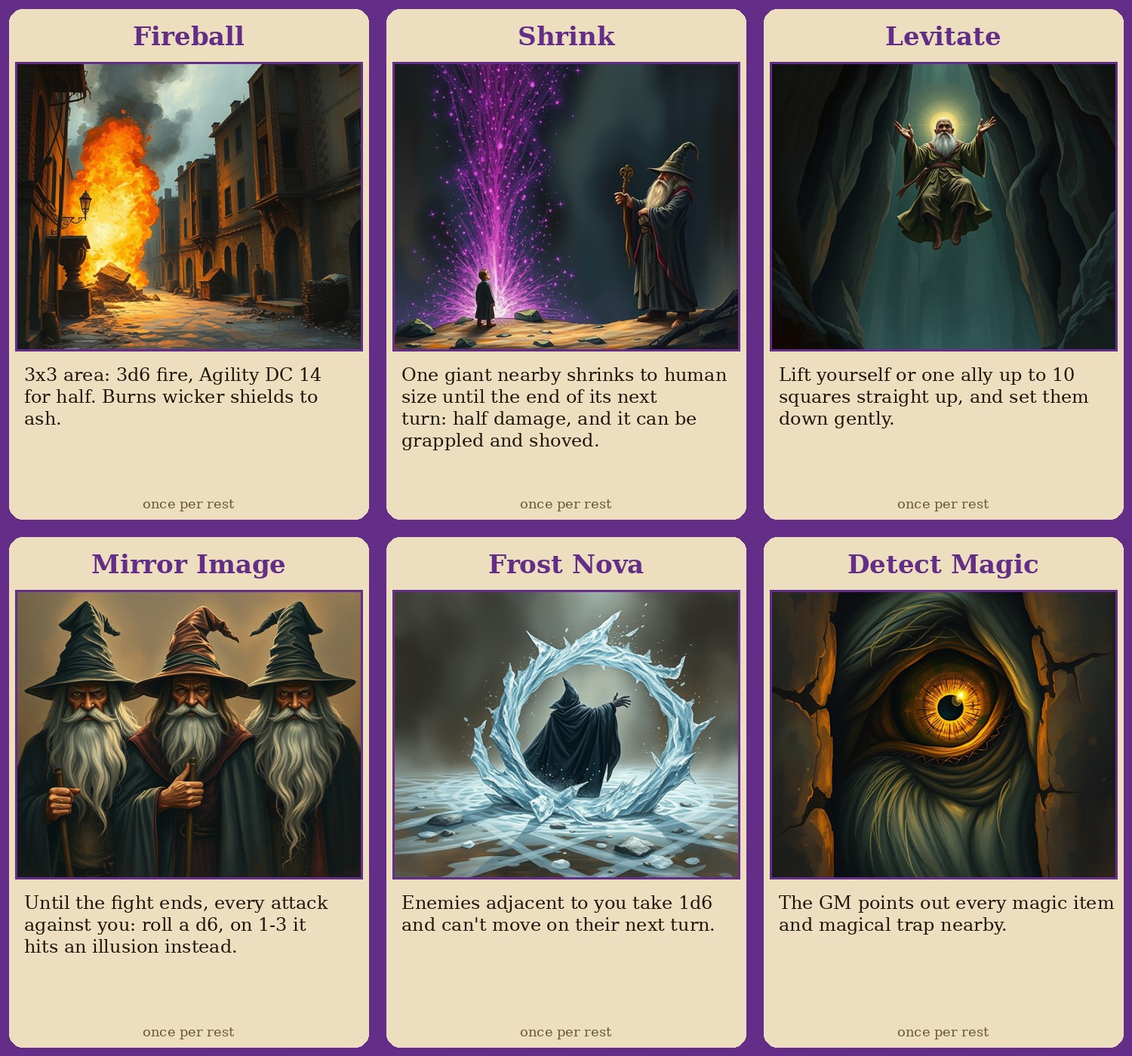
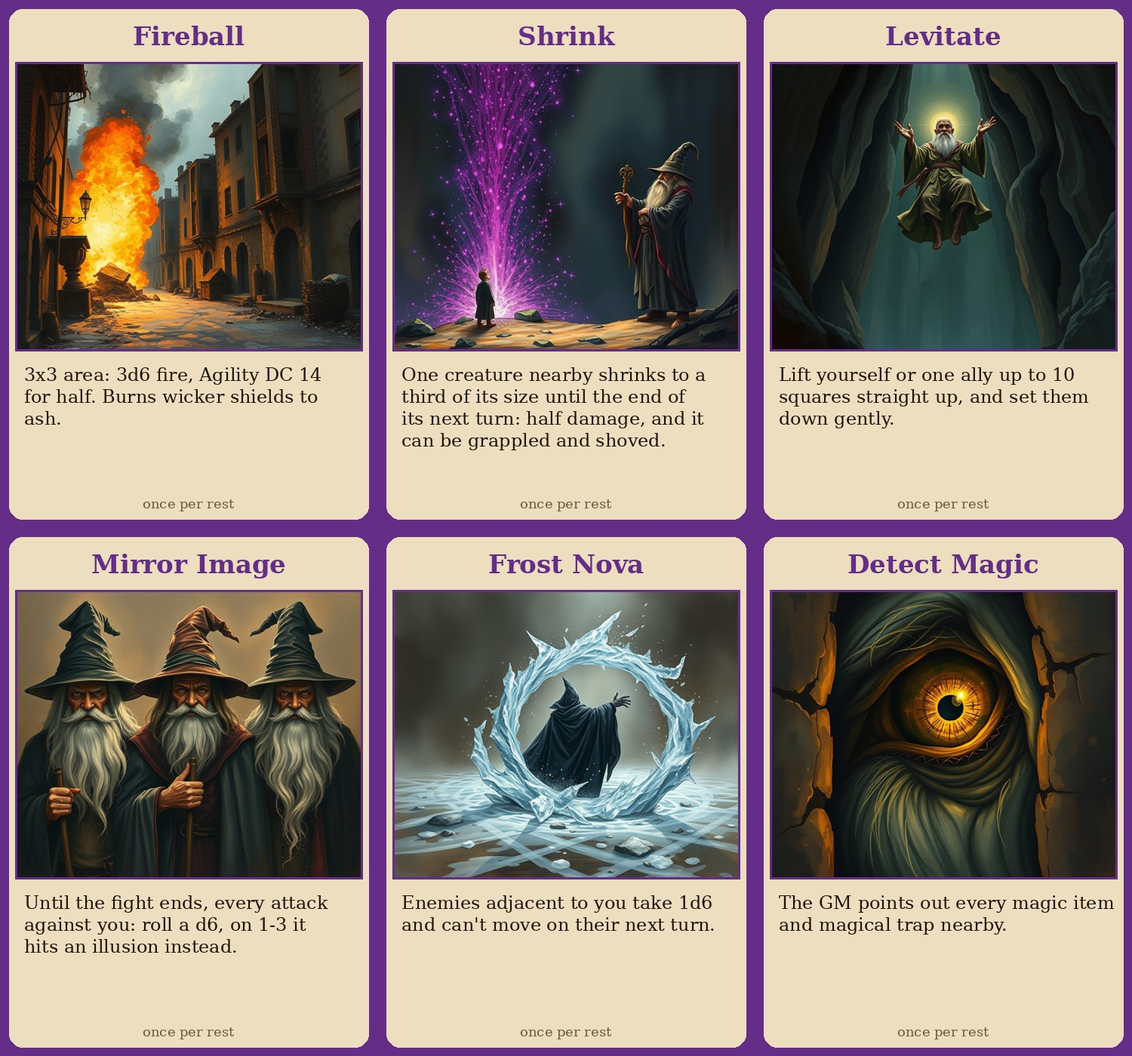
GM loot bag; new items (Sniffer Ferret, Potion of Giantism, Lightning Rod); Baron's Lucky Ring, Speak Giant; text fixes; new card and item art

Changed region(s): [[0.3373, 0.3379, 0.644, 0.43]]

diff --git a/content.py b/content.py
@@ -31,7 +31,7 @@ HEROES = [
          attacks=[("Dagger", 5, "1d6+3", "melee"), ("Throwing knife", 5, "1d4+3", "range 6")],
          blurb="Quick feet, quicker hands. Nothing stays locked for long.",
          traits=["Sneaky: advantage on sneaking and lockpicking (roll 2 d20, keep the best).",
-                 "Street smart: knows how thieves' guilds think, talk and hide things."],
+                 "Street smart: knows how thieves think, talk and hide things."],
          background="Grew up in the alleys of Aldmere's capital and talked his way into the King's service "
                     "instead of the King's dungeon.",
          gear="Twin daggers, throwing knives, lockpicks, rope, a hooded cloak.",
@@ -40,11 +40,11 @@ HEROES = [
              ("Shadowstep", "Move up to 6 squares unseen. Your next attack this turn rolls 2 d20, keep the best.",
               "a hooded rogue melting into deep shadow in a narrow medieval alley between timber-framed houses, lantern light, only glowing eyes visible"),
              ("Backstab", "Play after you hit: add +2d6 damage.",
-              "a dagger striking from behind a pillar, dramatic motion"),
+              "side view of two men: a hooded assassin standing right behind a city guard, his dagger sunk into the guard's back between the shoulder blades, the guard's face twisted in shock, dark alley, dramatic rim light"),
              ("Nimble Fingers", "Auto-succeed one lockpick, pickpocket or trap-disarm check.",
               "delicate hands picking an ornate lock with thin tools, candlelight"),
              ("Smoke Bomb", "Everyone in a 3x3 area is hidden until they act. Enemies can't target allies inside.",
-              "a burst of thick grey smoke in a narrow street, silhouettes escaping"),
+              "a hooded rogue vanishing in a billowing cloud of thick grey smoke burst at his feet, coughing guards groping around him, narrow torchlit street"),
              ("Luck", "Reroll any one die on the table, yours or anyone else's.",
               "close-up of a single ivory six-sided die with round pips on a worn wooden table, candlelight, blank table surface"),
              ("Poisoned Blade", "Your next hit also deals 1d6 at the start of the target's next 3 turns.",
@@ -54,14 +54,14 @@ HEROES = [
          stats=dict(Might=3, Agility=1, Wits=0),
          attacks=[("Longsword", 5, "1d8+3", "melee"), ("Shield bash", 5, "1d4+3", "melee, push 1 square")],
          blurb="Veteran of the goblin wars. First in, last out.",
-         traits=["Speaks a little Giant: understands simple words and can say a few. Anything harder: Wits DC 12.",
-                 "Hard to shift: advantage on checks to hold a door, a line or a giant's leash."],
+         traits=["Speaks a little Giant: understands simple words and can say a few.",
+                 "Hard to shift: advantage on checks that would move him against his will."],
          background="Veteran of the goblin wars. Picked up some Giant guarding a captured one for a winter, mostly the rude words.",
          gear="Longsword, dented shield, chainmail, a flask of something strong.",
          portrait="a scarred armoured knight with longsword and dented shield, stern face, stormy sky",
          cards=[
              ("Cleave", "Make one attack roll against every enemy adjacent to you.",
-              "a knight swinging a longsword in a wide arc, sparks flying"),
+              "action shot of a knight swinging his longsword in a wide sweeping arc, a bright curved slash trail of light across the whole frame, motion blur, sparks"),
              ("Shield Wall", "Until your next turn, you and adjacent allies get +3 Defense.",
               "a raised battered shield taking a hail of arrows"),
              ("Taunt", "All enemies that can see you must attack you this round.",
@@ -69,9 +69,9 @@ HEROES = [
              ("Second Wind", "Heal 1d10+5 HP. Free action.",
               "a wounded knight rising to his feet, breathing hard, golden light"),
              ("Mighty Heave", "Throw an object or a human-sized foe up to 4 squares: 2d6 damage to what it hits.",
-              "a knight hurling a heavy barrel at an enemy"),
-             ("Giant-Talk", "Understand and speak Giant for one whole conversation. +5 to persuade or intimidate a giant.",
-              "a scarred knight in chainmail shouting up at a huge bearded hill giant in furs and leather, the giant a big rough man with a wild beard, ruined medieval town street"),
+              "a muscular armoured knight lifting a heavy wooden barrel over his head and hurling it at a charging brute, splinters flying"),
+             ("Speak Giant", "Understand and speak Giant for one whole conversation. +5 to persuade or intimidate a giant.",
+              "a scarred knight in chainmail standing on a broken cart shouting up at a huge brutish pot-bellied hill giant in a ragged loincloth who leans down to listen, ruined town street"),
          ]),
     dict(key="healer", name="Sister Maelis the Healer", color="Green", fig="rpg_WARRIOR", hp=22, defense=13,
          stats=dict(Might=1, Agility=0, Wits=3),
@@ -84,7 +84,7 @@ HEROES = [
          portrait="a stout middle-aged battle priestess in chainmail holding a flanged mace, a golden sun pendant on her chest, kind stern face, braided hair, warm light",
          cards=[
              ("Mending Touch", "Heal an adjacent ally 2d8+3.",
-              "glowing hands pressed on a wounded shoulder, soft golden light"),
+              "two open hands glowing with warm golden healing light, soft rays and motes of light, close-up, dark background"),
              ("Prayer of Light", "Every ally within 6 squares heals 1d8.",
               "a priestess raising a holy symbol, rays of light over a group"),
              ("Blessing", "One ally adds +1d4 to all rolls until the end of the fight.",
@@ -101,14 +101,14 @@ HEROES = [
          attacks=[("Staff", 2, "1d6", "melee"), ("Arcane bolt", 5, "1d10", "range 10")],
          blurb="Royal court wizard. Fragile, clever, and stubborn.",
          traits=["Arcane lore: recognises magic items, runes and spells on sight.",
-                 "Old friends: he taught Princess Isolde her first sorcery. She trusts his voice."],
+                 "Old friends: tutored the young princess in magic; she trusts him."],
          background="Royal court wizard. Fragile, clever and stubborn. Tutor to the princess, and not about to lose her.",
          gear="Crooked staff, spellbook, star-embroidered robe, a pipe he is not allowed to light indoors.",
          portrait="an old bearded wizard with a crooked staff and star-embroidered robe, arcane glow",
          cards=[
              ("Fireball", "3x3 area: 3d6 fire, Agility DC 14 for half. Burns wicker shields to ash.",
               "a huge fireball exploding in a ruined street, wicker burning"),
-             ("Shrink", "One giant nearby shrinks to human size until the end of its next turn: half damage, and it can be grappled and shoved.",
+             ("Shrink", "One creature nearby shrinks to a third of its size until the end of its next turn: half damage, and it can be grappled and shoved.",
               "a tiny bewildered giant the size of a man standing among towering wizard's purple sparkles, an old wizard pointing his staff at it"),
              ("Levitate", "Lift yourself or one ally up to 10 squares straight up, and set them down gently.",
               "an old wizard levitating in mid-air inside a tall dark cave shaft, feet high above the ground, robes billowing, glowing aura"),
@@ -117,7 +117,7 @@ HEROES = [
              ("Frost Nova", "Enemies adjacent to you take 1d6 and can't move on their next turn.",
               "a ring of ice exploding outwards from a wizard, frozen ground"),
              ("Detect Magic", "The GM points out every magic item and magical trap nearby.",
-              "a wizard's eye glowing, hidden objects shining through walls"),
+              "an old bearded wizard peering closely at a glowing magic ring held up between his fingers, violet light on his face, dark study"),
          ]),
 ]
 
@@ -157,7 +157,7 @@ NPCS = {
         ("Club smash", 7, "2d8+4", "melee, reach 2"),
         ("Stomp", None, "1d8", "all adjacent: Agility DC 13 or take it and fall prone"),
     ], notes="WICKER SHIELD: ranged attacks against it get -5 unless the shield is burned. Moves 8."),
-    "giant_thrower": dict(portrait="a hunched brutish hill giant three times the height of a man, huge round pot belly, long thick muscular arms, sloping shoulders, small head with patchy greasy hair, heavy lumpy deformed brow, crooked yellow teeth bared, dirt-smeared tanned skin, ragged loincloth, crude leather sandals, hefting a broken cart wheel over his head to throw it, terrified townsmen beside him reach only to his knees, ruined town street, smoke", name="Giant thrower", fig="rpg_CYCLOP", scale=0.9, hp=50, defense=12, attacks=[
+    "giant_thrower": dict(portrait="close-up head and shoulders of a brutish pot-bellied hill giant with patchy greasy hair, a lumpy deformed brow and crooked yellow teeth, snarling as he hurls a big rock toward the viewer, the rock flying at the camera, motion blur, smoke", name="Giant thrower", fig="rpg_CYCLOP", scale=0.9, hp=50, defense=12, attacks=[
         ("Hurl rubble", 5, "2d6+2", "range 10"),
         ("Hurl cart wheel", None, "2d8", "a line 6 long, Agility DC 13 for half"),
         ("Club smash", 6, "2d8+2", "melee, reach 2"),
@@ -196,7 +196,7 @@ NPCS = {
         ("Baron's Bones: roll 3d6", None, "3d6", "dice game roll"),
         ("Baron's Bones: reroll 1 die", None, "1d6", "his free reroll each round (ring or rules)"),
         ("Lucky Ring reroll", None, "1d6", "extra reroll from the ring, once per round"),
-    ], notes="Wears VASKO'S LUCKY RING (see notes). Laughs a lot, never blinks."),
+    ], notes="Wears THE BARON'S LUCKY RING (see notes). Laughs a lot, never blinks."),
     "guard": dict(portrait="a big brutish bandit bodyguard with a broken nose, spiked cudgel and leather armour, candlelit cellar", name="Baron's bruiser", fig="rpg_ORC", hp=20, defense=14, attacks=[
         ("Axe", 4, "1d10+2", "melee"),
     ], notes="Two of them. Loyal while Vasko is winning."),
@@ -210,7 +210,7 @@ NPCS = {
     "dying_giant": dict(portrait="a wounded old hill giantess slumped against cave rock, grey braids, tired sad eyes, dim firelight", name="Hrothga, dying giantess", fig="rpg_CYCLOP", scale=0.85, move=0, notable=True,
                         hp=6, defense=8, attacks=[
         ("Feeble swipe", 3, "1d6", "only if attacked"),
-    ], notes="Speaks only Giant (Giant-Talk, or Brannoc's few words). See scene notes."),
+    ], notes="Speaks only Giant (Speak Giant, or Brannoc's few words). See scene notes."),
     "dead_human": dict(name="Fallen guildsman", fig="rpg_THIEF", hp=1, defense=1, attacks=[], notes="Died fighting.",
                        dead=True),
     "princess": dict(portrait="a wounded young princess sorceress with a cracked moonstone staff, pale, torn royal robes, determined eyes, dark cave", notable=True, name="Princess Isolde", fig="rpg_MAGE", hp=20, defense=12, attacks=[
@@ -403,12 +403,12 @@ RAT'S BONES (dice game) - best of 3 rounds:
   THE LOADED GOLD DIE (if they found it in the sewer): always a 6. Swapping it in unseen: Agility DC 13;
     Vasko notices a gold die on Wits DC 12 (he'd know - it's how he'd cheat too).
   Stakes: party loses -> hand over all food and gold. Party wins -> he talks.
-  THE RING: Vasko secretly rerolls once more per round with VASKO'S LUCKY RING (use its button).
+  THE RING: Vasko secretly rerolls once more per round with THE BARON'S LUCKY RING (use its button).
     Wits DC 14 to notice his ring glowing when he rerolls. Calling it out: he laughs, sets it aside
     for "fairness" (no more ring rerolls) - and now it's on the table.
   STEALING THE RING (optional heist): Agility DC 16 while he's rolling (Nimble Fingers auto-succeeds,
     Smoke Bomb or a distraction gives +5). Caught -> the bruisers attack, kids scatter.
-  VASKO'S LUCKY RING (magic): once per fight, reroll any die you can see.
+  THE BARON'S LUCKY RING (magic): once per fight, reroll any die you can see.
 IF THEY WIN: "The girl? Yes, I kept her. A princess eats a lot. Sold her to the guild boys, the
   Shadow Hands. They meant to ransom her to your king. Took her out by cart, north road, three days ago."
   He whistles; a kid leads them to the hidden door (east wall): the old smugglers' passage.
@@ -426,7 +426,7 @@ If paid the kids earlier: Vasko starts friendly and the first round is given to 
                   ("chest", -2.6, -1.5, 80, 1, {"name": "Old chest", "gm": "Empty: looted long ago."}),
                   # A: old guard post (north, x -3.5)
                   ("chest", -3.5, 6.0, 0, 1, {"name": "Guard post chest", "gm": "Locked (Agility DC 12): 15 gold, a rope. "
-                   "The skeleton beside it still holds the LANTERN OF TRUE SIGHT."}),
+                   "A caged SNIFFER FERRET sits by the skeleton, still alive."}),
                   ("torch", -4.3, 5.4), ("rubble", -2.9, 4.4, 60, 0.6),
                   # B: collapsed stash (south, x 1.5)
                   ("rubble", 1.5, -5.6, 0, 1.1), ("barrel", 0.9, -4.6, 0, 1, {"name": "Smugglers' stash", "gm": "Wits DC 12: the ceiling is loose. Digging out carelessly brings it down (1d6, Agility DC 12 halves). Inside: 3 rations and a SMOKE EGG."}),
@@ -460,9 +460,9 @@ Disarm: Agility DC 13 (Nimble Fingers auto). Triggered effects:
      Right-click the vent marker > "Release the gas" for the green cloud.
   4. BELL TRIPWIRE (column +8): harmless... unless it rings: the 2 giant rats in their nest (C) attack.
 SIDE PASSAGES (optional, each off the main tunnel; hover a chest/barrel/sack for its loot):
-  A. OLD GUARD POST (north, column -3.5): a skeleton slumped by a chest. LOOT: the skeleton has a LANTERN OF
-     TRUE SIGHT (magic: once, see through illusions/invisibility for an hour) - hint: the princess will be hard
-     to see in the cave. The chest is locked (Agility DC 12): 15 gold, a rope.
+  A. OLD GUARD POST (north, column -3.5): a skeleton slumped by a chest. LOOT: in a little cage by the skeleton, a
+     SNIFFER FERRET, still alive (the smugglers' pet: once, it finds one hidden person, door or trap) - hint: the
+     princess will be hard to find in the cave. The chest is locked (Agility DC 12): 15 gold, a rope.
   B. COLLAPSED STASH (south, column +1.5): smugglers' goods half buried under a roof fall. Wits DC 12 notices the
      ceiling is loose; digging out the barrel without care brings more down (1d6, Agility DC 12 halves).
      Inside: 3 rations and a SMOKE EGG (magic: works like Smoke Bomb, once).
@@ -514,17 +514,17 @@ After: tracks and blood lead to a cave in the hillside."""),
                ("princess", 0, 6)],
          notes="""Read aloud: "The cave stinks of blood and smoke. The guild made their last stand here -
 three bodies around a burnt-out fire. In the corner, leaning against the rock, a giantess. Still breathing."
-HROTHGA (dying giantess): speaks Giant only. Brannoc's Giant-Talk lets them talk; without it
-he gets a few words (Wits DC 12 for anything more). Kind Heart makes her trust them. She is not hostile, just dying. What she knows:
+HROTHGA (dying giantess): speaks Giant only. Brannoc's Speak Giant card lets them talk; without it
+he gets a few simple words. Kind Heart makes her trust them. She is not hostile, just dying. What she knows:
   - "The little thieves took the Hearthstone from our mountain. Our shrine is cold. We came for it."
   - "We found the little witch in the thieves' cage. She is the Pact-maker. We wanted her to speak for us."
   - "The thieves fought. She... became a bird. White bird. Flew up." (points up the shaft to the north)
   - If healed/fed: "Tell your king: give back the Hearthstone and the mountains are quiet again."
-  - She carries a GIANT'S TOOTH AMULET (magic: once, Might check auto-succeeds) and gives it if treated kindly.
+  - She carries a POTION OF GIANTISM (drink: twice your size until the fight ends, +1d4 melee damage) and gives it if treated kindly.
 THE SHAFT (north, where the light comes in): 10 squares straight up. Might DC 15 climb (fail: 1d6, try again), rope + one
-climber, or LEVITATE. The LANTERN OF TRUE SIGHT shows her hiding place (otherwise Wits DC 14).
+climber, or LEVITATE. The SNIFFER FERRET finds her hiding place (otherwise Wits DC 14).
 ISOLDE: in a ledge up the shaft, human again, wounded but alive. Heal her or give her food (she stands).
-She keeps a shard of her MOONSTAFF (magic, gift to whoever reached her first: once, cast Fireball).
+She keeps a LIGHTNING ROD (magic, gift to whoever reached her first: once, chain lightning 2d6 + 1d6 to 2 more).
 Read aloud: "A pale young woman in torn blue silk opens her eyes. 'Took you long enough.'"
 THE END. (Optional epilogue: she promises to return the Hearthstone and renew the Pact.)"""),
 ]
@@ -535,20 +535,21 @@ BATTLE_MUSIC = "battle.mp3"
 # magic items as cards the GM hands out: (name, rules text, card art prompt, copies)
 # what a right-click > Search turns up in a chest/barrel/crate/sack without fixed loot: (weight, text); {gold} = 2-8.
 # Out of 100: gold 15, each item card 1. Weight 3 or less sparkles.
-FOOD = [("an apple.", "Apple"), ("a strip of salted venison.", "Salted venison"), ("a wedge of hard cheese.", "Hard cheese"),
-        ("a heel of rye bread.", "Rye bread"), ("a dried fish.", "Dried fish")]   # food finds use the ration model
+FOOD = [("An apple.", "Apple"), ("A strip of salted venison.", "Salted venison"), ("A wedge of hard cheese.", "Hard cheese"),
+        ("A heel of rye bread.", "Rye bread"), ("A dried fish.", "Dried fish")]   # food finds use the ration model
 LOOT = [   # (weight, [(text, what turns up on the table), ...]: one of the variants at random. On the table: False (nothing),
            # "gold" (that many coins), or an item name: a loot sack, the ration model for FOOD, or a copy of that item card)
-    (30, [("rot, mould and rat droppings. Nothing.", False)]),
-    (6, [("an angry rat! It bites (1 damage) and is gone.", False)]),
-    (8, [("a love letter in Dravic, unsent. Worthless, but touching.", "Love letter (Dravic)")]),
-    (8, [("a cracked mug and a lucky horseshoe nail. Worthless.", "Lucky horseshoe nail")]),
+    (30, [("Rot, mould and rat droppings. Nothing.", False)]),
+    (6, [("An angry rat! It bites (1 damage) and is gone.", False)]),
+    (6, [("A love letter, unsent. Worthless, but touching.", "Love letter")]),
+    (5, [("A cracked mug. Worthless.", "Cracked mug")]),
+    (5, [("A lucky horseshoe nail. Worthless.", "Lucky horseshoe nail")]),
     (15, [("{gold} gold.", "gold")]),
-    (30, FOOD + [("a torch.", "Torch"), ("a coil of rope.", "Rope"),
-                 ("a flask of lamp oil (thrown: 1d6 fire, once).", "Lamp oil")]),   # supplies
-    (1, [("a HEALING DRAUGHT!", "Healing Draught")]),
-    (1, [("a SMOKE EGG!", "Smoke Egg")]),
-    (1, [("a POISON FLASK!", "Poison Flask")]),
+    (30, FOOD + [("A torch.", "Torch"), ("A coil of rope.", "Rope"),
+                 ("A flask of lamp oil (thrown: 1d6 fire, once).", "Lamp oil")]),   # supplies
+    (1, [("A HEALING DRAUGHT!", "Healing Draught")]),
+    (1, [("A SMOKE EGG!", "Smoke Egg")]),
+    (1, [("A POISON FLASK!", "Poison Flask")]),
 ]
 
 ITEMS = [
@@ -560,16 +561,16 @@ ITEMS = [
      "a small round glass flask of glowing red potion with a cork stopper on a wooden table", 2),
     ("Smoke Egg", "Throw it: works like Smoke Bomb, a 3x3 area is hidden until they act. One use.",
      "a grey clay egg-shaped bomb with a short smouldering fuse, wisps of smoke curling from it", 2),
-    ("Vasko's Lucky Ring", "Once per fight: reroll any die you can see.",
-     "a heavy gold signet ring with a rat crest and a faintly glowing green gem on red velvet", 1),
-    ("Lantern of True Sight", "Once: for an hour, see through illusions and invisibility.",
-     "an old engraved brass lantern glowing with pale blue magical light in a dark stone tunnel", 1),
-    ("Giant's Tooth Amulet", "Once: one Might check automatically succeeds.",
-     "a huge yellowed giant's tooth carved with swirling spiral patterns hanging from a thick braided rope on dark stone", 1),
-    ("Moonstaff Shard", "Once: cast Fireball (3x3 area, 3d6 fire, Agility DC 14 for half).",
-     "a broken shard of a silver staff with a glowing crescent moon crystal, sparks of light", 1),
-    ("Poison Flask", "Throw it (range 6): the target takes 1d6 at the start of its next 3 turns, like Poisoned Blade. One use.",
-     "a small cracked clay flask of bubbling green poison with a rag stopper on a dark wooden table, green fumes", 1),
+    ("Baron's Lucky Ring", "Once per fight: reroll any die you can see.",
+     "a heavy gold signet ring with a rat crest and a glowing green gem resting on a pile of old bone dice and coins on a gambling table, candlelight", 1),
+    ("Sniffer Ferret", "Once: let it loose. It sniffs out one hidden person, door or trap nearby, then comes back for a treat.",
+     "a sly sleek ferret with a tiny leather collar peeking out of a small wooden smuggler's cage, lantern light, stone tunnel", 1),
+    ("Potion of Giantism", "Drink it: you grow to twice your size until the fight ends. Your melee attacks deal +1d4 damage.",
+     "a large bulbous potion bottle of swirling amber liquid with a giant's footprint seal on the cork, on a rough stone ledge", 1),
+    ("Lightning Rod", "Once: chain lightning. 2d6 to one target, then it jumps to up to 2 more enemies within 3 squares for 1d6 each.",
+     "a short iron rod wrapped in copper wire crackling with blue lightning arcs, held up in a dark cave", 1),
+    ("Poison Flask", "Throw it (range 6): the target takes 1d6 at the start of its next 3 turns. One use.",
+     "a small round glass flask of bubbling acid-green poison with a skull scratched into the glass and a wax-sealed cork, wisps of green fumes, dark wooden table", 1),
 ]
 # per scene: 360 backdrop around the table (prompt) and the mood light (colour, brightness x the default)
 SKY_STYLE = ("An equirectangular 360 degree panorama, seen from eye level. A painterly dark fantasy illustration "

diff --git a/build.py b/build.py
@@ -430,8 +430,8 @@ CARD_FX = {"Shadowstep": "puff", "Backstab": "blood", "Smoke Bomb": "smoke_cloud
            "Prayer of Light": "burst_yellow", "Blessing": "swirl_yellow", "Sanctuary": "burst_white", "Revive": "burst_yellow",
            "Kind Heart": "swirl_red", "Fireball": "fireball", "Shrink": "swirl_purple", "Levitate": "swirl_white",
            "Mirror Image": "swirl_purple", "Frost Nova": "burst_blue", "Detect Magic": "swirl_blue",
-           "Healing Draught": "swirl_green", "Smoke Egg": "smoke_cloud", "Vasko's Lucky Ring": "swirl_yellow",
-           "Lantern of True Sight": "swirl_blue", "Moonstaff Shard": "burst_white"}
+           "Healing Draught": "swirl_green", "Smoke Egg": "smoke_cloud", "Baron's Lucky Ring": "swirl_yellow", "Potion of Giantism": "burst_red",
+           "Sniffer Ferret": "puff", "Lightning Rod": "burst_blue"}
 def fx_obj(name, x, z, n, scene, base, lift=0.0):
     f = FX[name]
     url = f["url"] if f["url"].startswith("http") else base + f["url"]
@@ -583,6 +583,10 @@ def gm_objects(base):
     for n, ((i, name, text), (x, z)) in enumerate(zip(cards, spots)):
         out.append(obj("Card", tf(ry=90.0), CardID=900 + i, Nickname=name, Description=text, CustomDeck={"9": deck},
                        GUID=guid("gm", "item", n), Hands=True, **gm, grid={"x": x, "z": z, "k": "tile", "s": [1, 1, 1]}))
+    out.append(model("sack", GUID=guid("gm", "lootbag"), Nickname="Loot bag", Locked=True, Tags=["gm", "lootbag"],
+                     Description="Draw loot: a random find from the search pool (never nothing), dropped here on your desk. "
+                                 "Drag it off the desk to hand it out.",
+                     grid={"x": X0 + 7.8, "z": 4.4, "k": "model", "s": [0.8, 0.8, 0.8], "lift": 0}))
     coin = model("coin", Nickname="Gold coin", Hands=True)
     out.append(obj("Infinite_Bag", tf(), GUID=guid("gm", "gold"), Nickname="Gold pouch", ColorDiffuse={"r": 0.45, "g": 0.3, "b": 0.18},
                    Description="Endless gold. Hover and press a number: that many coins go to your hand.",

diff --git a/test_lua.py b/test_lua.py
@@ -441,7 +441,7 @@ c.setScene(5)
 objs = list(g.getObjectsWithTag("scene").values())
 traps = [o for o in objs if (o.data.Nickname or "").startswith("Trap ")]
 assert len(traps) == 4 and all(o.invisible and o.tint.a < 1 and "DC" in o.data.GMNotes for o in traps)
-assert any("LANTERN OF TRUE SIGHT" in (o.data.GMNotes or "") for o in objs)
+assert any("SNIFFER FERRET" in (o.data.GMNotes or "") for o in objs)
 vent = next(o for o in traps if "poison gas" in o.data.Nickname)
 g.spawned = None; vent.menu("Red"); assert g.spawned is None                    # players can't set it off
 vent.menu("Black"); assert g.spawned.CustomAssetbundle.LoopingEffectIndex == 6  # green smoke
@@ -597,6 +597,17 @@ torch = drop("Torch", "a torch.", 0)
 assert len(torch) == 1 and torch[0].data.Description == "A torch." and "sack" in torch[0].data.CustomMesh.MeshURL and torch[0].data.s is None
 assert drop("Poison Flask", "a POISON FLASK!", 0)[0].data.Name == "Card"
 assert "ration" in drop("Salted venison", "a strip of salted venison.", 0)[0].data.CustomMesh.MeshURL   # food: ration model
+# the GM's loot bag: never nothing, the find lands on the GM desk hidden from players; players can't draw
+bag = next(iter(g.getObjectsWithTag("lootbag").values()))
+assert bag.buttons and bag.buttons[1].label == "Draw loot"
+fn = getattr(c, bag.buttons[1].click_function)
+before = {o.data.GUID for o in loot()}
+fn(bag, "Red"); assert {o.data.GUID for o in loot()} == before
+for _ in range(20):
+    fn(bag, "Black")
+drawn = [o for o in loot() if o.data.GUID not in before]
+assert len(drawn) >= 20 and all(o.hasTag("gm") and o.invisible for o in drawn)
+assert all(o.getPosition().x > ART[0] for o in drawn)                                  # on the GM side, off the map
 n = len(loot()); c.dropLoot(None, "Nothing.", 0, lua.table_from({"x": 0, "z": 0})); assert len(loot()) == n
 
 # ---- npc.lua on a giant

diff --git a/GM_GUIDE.md b/GM_GUIDE.md
@@ -49,7 +49,7 @@ Searching: right-click a chest, barrel, crate or sack next to your hero > Search
 - Card *Taunt*: All enemies that can see you must attack you this round.
 - Card *Second Wind*: Heal 1d10+5 HP. Free action.
 - Card *Mighty Heave*: Throw an object or a human-sized foe up to 4 squares: 2d6 damage to what it hits.
-- Card *Giant-Talk*: Understand and speak Giant for one whole conversation. +5 to persuade or intimidate a giant.
+- Card *Speak Giant*: Understand and speak Giant for one whole conversation. +5 to persuade or intimidate a giant.
 
 **Sister Maelis the Healer** (Green) HP 22, Def 13, Might +1, Agility +0, Wits +3
 - Card *Mending Touch*: Heal an adjacent ally 2d8+3.
@@ -61,7 +61,7 @@ Searching: right-click a chest, barrel, crate or sack next to your hero > Search
 
 **Aldric the Wizard** (Purple) HP 16, Def 11, Might +0, Agility +1, Wits +3
 - Card *Fireball*: 3x3 area: 3d6 fire, Agility DC 14 for half. Burns wicker shields to ash.
-- Card *Shrink*: One giant nearby shrinks to human size until the end of its next turn: half damage, and it can be grappled and shoved.
+- Card *Shrink*: One creature nearby shrinks to a third of its size until the end of its next turn: half damage, and it can be grappled and shoved.
 - Card *Levitate*: Lift yourself or one ally up to 10 squares straight up, and set them down gently.
 - Card *Mirror Image*: Until the fight ends, every attack against you: roll a d6, on 1-3 it hits an illusion instead.
 - Card *Frost Nova*: Enemies adjacent to you take 1d6 and can't move on their next turn.
@@ -80,11 +80,11 @@ Searching: right-click a chest, barrel, crate or sack next to your hero > Search
 - **Lady Oriska (noble)** HP 10, Def 12. . Pays 5 gold per carcass. Has a fat purse and a Healing Draught she'll trade for food.
 - **Hunter** HP 14, Def 13. Short bow (+4, 1d8, range 10). Rough, proud. They hunt the woods outside the walls and bring the game down here to sell. Trade food for their Wolf-tooth Charm.
 - **Giant rat carcass** HP 1, Def 1. . Food.
-- **Vasko, the Bandit Baron** HP 25, Def 13. Rapier (+5, 1d8+2, melee); Baron's Bones: roll 3d6 (no roll, 3d6, dice game roll); Baron's Bones: reroll 1 die (no roll, 1d6, his free reroll each round (ring or rules)); Lucky Ring reroll (no roll, 1d6, extra reroll from the ring, once per round). Wears VASKO'S LUCKY RING (see notes). Laughs a lot, never blinks.
+- **Vasko, the Bandit Baron** HP 25, Def 13. Rapier (+5, 1d8+2, melee); Baron's Bones: roll 3d6 (no roll, 3d6, dice game roll); Baron's Bones: reroll 1 die (no roll, 1d6, his free reroll each round (ring or rules)); Lucky Ring reroll (no roll, 1d6, extra reroll from the ring, once per round). Wears THE BARON'S LUCKY RING (see notes). Laughs a lot, never blinks.
 - **Baron's bruiser** HP 20, Def 14. Axe (+4, 1d10+2, melee). Two of them. Loyal while Vasko is winning.
 - **Giant** HP 70, Def 12. Log throw (no roll, 3d6, 2x2 area, Agility DC 14 for half; opening move); Club smash (+7, 2d8+4, melee, reach 2); Roar (no roll, -, all heroes within 6: Wits DC 12 or lose next move). Leader of the ambush. Wicker shield: ranged -5.
 - **Trampled guildsman** HP 1, Def 1. . Thieves' guild. Search: 3 gold, a guild token, cart keys.
-- **Hrothga, dying giantess** HP 6, Def 8. Feeble swipe (+3, 1d6, only if attacked). Speaks only Giant (Giant-Talk, or Brannoc's few words). See scene notes.
+- **Hrothga, dying giantess** HP 6, Def 8. Feeble swipe (+3, 1d6, only if attacked). Speaks only Giant (Speak Giant, or Brannoc's few words). See scene notes.
 - **Fallen guildsman** HP 1, Def 1. . Died fighting.
 - **Princess Isolde** HP 20, Def 12. Moonfire (+6, 2d6, range 10 (once she's healed)). Wounded (lying down, 4 HP). Heal her with the damage box (e.g. -8) and she stands up.
 - **Giant rat** HP 6, Def 12. Bite (+4, 1d6, melee). Only attacks if the bell trap rings or it's cornered.
@@ -158,12 +158,12 @@ RAT'S BONES (dice game) - best of 3 rounds:
   THE LOADED GOLD DIE (if they found it in the sewer): always a 6. Swapping it in unseen: Agility DC 13;
     Vasko notices a gold die on Wits DC 12 (he'd know - it's how he'd cheat too).
   Stakes: party loses -> hand over all food and gold. Party wins -> he talks.
-  THE RING: Vasko secretly rerolls once more per round with VASKO'S LUCKY RING (use its button).
+  THE RING: Vasko secretly rerolls once more per round with THE BARON'S LUCKY RING (use its button).
     Wits DC 14 to notice his ring glowing when he rerolls. Calling it out: he laughs, sets it aside
     for "fairness" (no more ring rerolls) - and now it's on the table.
   STEALING THE RING (optional heist): Agility DC 16 while he's rolling (Nimble Fingers auto-succeeds,
     Smoke Bomb or a distraction gives +5). Caught -> the bruisers attack, kids scatter.
-  VASKO'S LUCKY RING (magic): once per fight, reroll any die you can see.
+  THE BARON'S LUCKY RING (magic): once per fight, reroll any die you can see.
 IF THEY WIN: "The girl? Yes, I kept her. A princess eats a lot. Sold her to the guild boys, the
   Shadow Hands. They meant to ransom her to your king. Took her out by cart, north road, three days ago."
   He whistles; a kid leads them to the hidden door (east wall): the old smugglers' passage.
@@ -188,9 +188,9 @@ Disarm: Agility DC 13 (Nimble Fingers auto). Triggered effects:
      Right-click the vent marker > "Release the gas" for the green cloud.
   4. BELL TRIPWIRE (column +8): harmless... unless it rings: the 2 giant rats in their nest (C) attack.
 SIDE PASSAGES (optional, each off the main tunnel; hover a chest/barrel/sack for its loot):
-  A. OLD GUARD POST (north, column -3.5): a skeleton slumped by a chest. LOOT: the skeleton has a LANTERN OF
-     TRUE SIGHT (magic: once, see through illusions/invisibility for an hour) - hint: the princess will be hard
-     to see in the cave. The chest is locked (Agility DC 12): 15 gold, a rope.
+  A. OLD GUARD POST (north, column -3.5): a skeleton slumped by a chest. LOOT: in a little cage by the skeleton, a
+     SNIFFER FERRET, still alive (the smugglers' pet: once, it finds one hidden person, door or trap) - hint: the
+     princess will be hard to find in the cave. The chest is locked (Agility DC 12): 15 gold, a rope.
   B. COLLAPSED STASH (south, column +1.5): smugglers' goods half buried under a roof fall. Wits DC 12 notices the
      ceiling is loose; digging out the barrel without care brings more down (1d6, Agility DC 12 halves).
      Inside: 3 rations and a SMOKE EGG (magic: works like Smoke Bomb, once).
@@ -222,17 +222,17 @@ After: tracks and blood lead to a cave in the hillside.
 ```
 Read aloud: "The cave stinks of blood and smoke. The guild made their last stand here -
 three bodies around a burnt-out fire. In the corner, leaning against the rock, a giantess. Still breathing."
-HROTHGA (dying giantess): speaks Giant only. Brannoc's Giant-Talk lets them talk; without it
-he gets a few words (Wits DC 12 for anything more). Kind Heart makes her trust them. She is not hostile, just dying. What she knows:
+HROTHGA (dying giantess): speaks Giant only. Brannoc's Speak Giant card lets them talk; without it
+he gets a few simple words. Kind Heart makes her trust them. She is not hostile, just dying. What she knows:
   - "The little thieves took the Hearthstone from our mountain. Our shrine is cold. We came for it."
   - "We found the little witch in the thieves' cage. She is the Pact-maker. We wanted her to speak for us."
   - "The thieves fought. She... became a bird. White bird. Flew up." (points up the shaft to the north)
   - If healed/fed: "Tell your king: give back the Hearthstone and the mountains are quiet again."
-  - She carries a GIANT'S TOOTH AMULET (magic: once, Might check auto-succeeds) and gives it if treated kindly.
+  - She carries a POTION OF GIANTISM (drink: twice your size until the fight ends, +1d4 melee damage) and gives it if treated kindly.
 THE SHAFT (north, where the light comes in): 10 squares straight up. Might DC 15 climb (fail: 1d6, try again), rope + one
-climber, or LEVITATE. The LANTERN OF TRUE SIGHT shows her hiding place (otherwise Wits DC 14).
+climber, or LEVITATE. The SNIFFER FERRET finds her hiding place (otherwise Wits DC 14).
 ISOLDE: in a ledge up the shaft, human again, wounded but alive. Heal her or give her food (she stands).
-She keeps a shard of her MOONSTAFF (magic, gift to whoever reached her first: once, cast Fireball).
+She keeps a LIGHTNING ROD (magic, gift to whoever reached her first: once, chain lightning 2d6 + 1d6 to 2 more).
 Read aloud: "A pale young woman in torn blue silk opens her eyes. 'Took you long enough.'"
 THE END. (Optional epilogue: she promises to return the Hearthstone and renew the Pact.)
 ```
